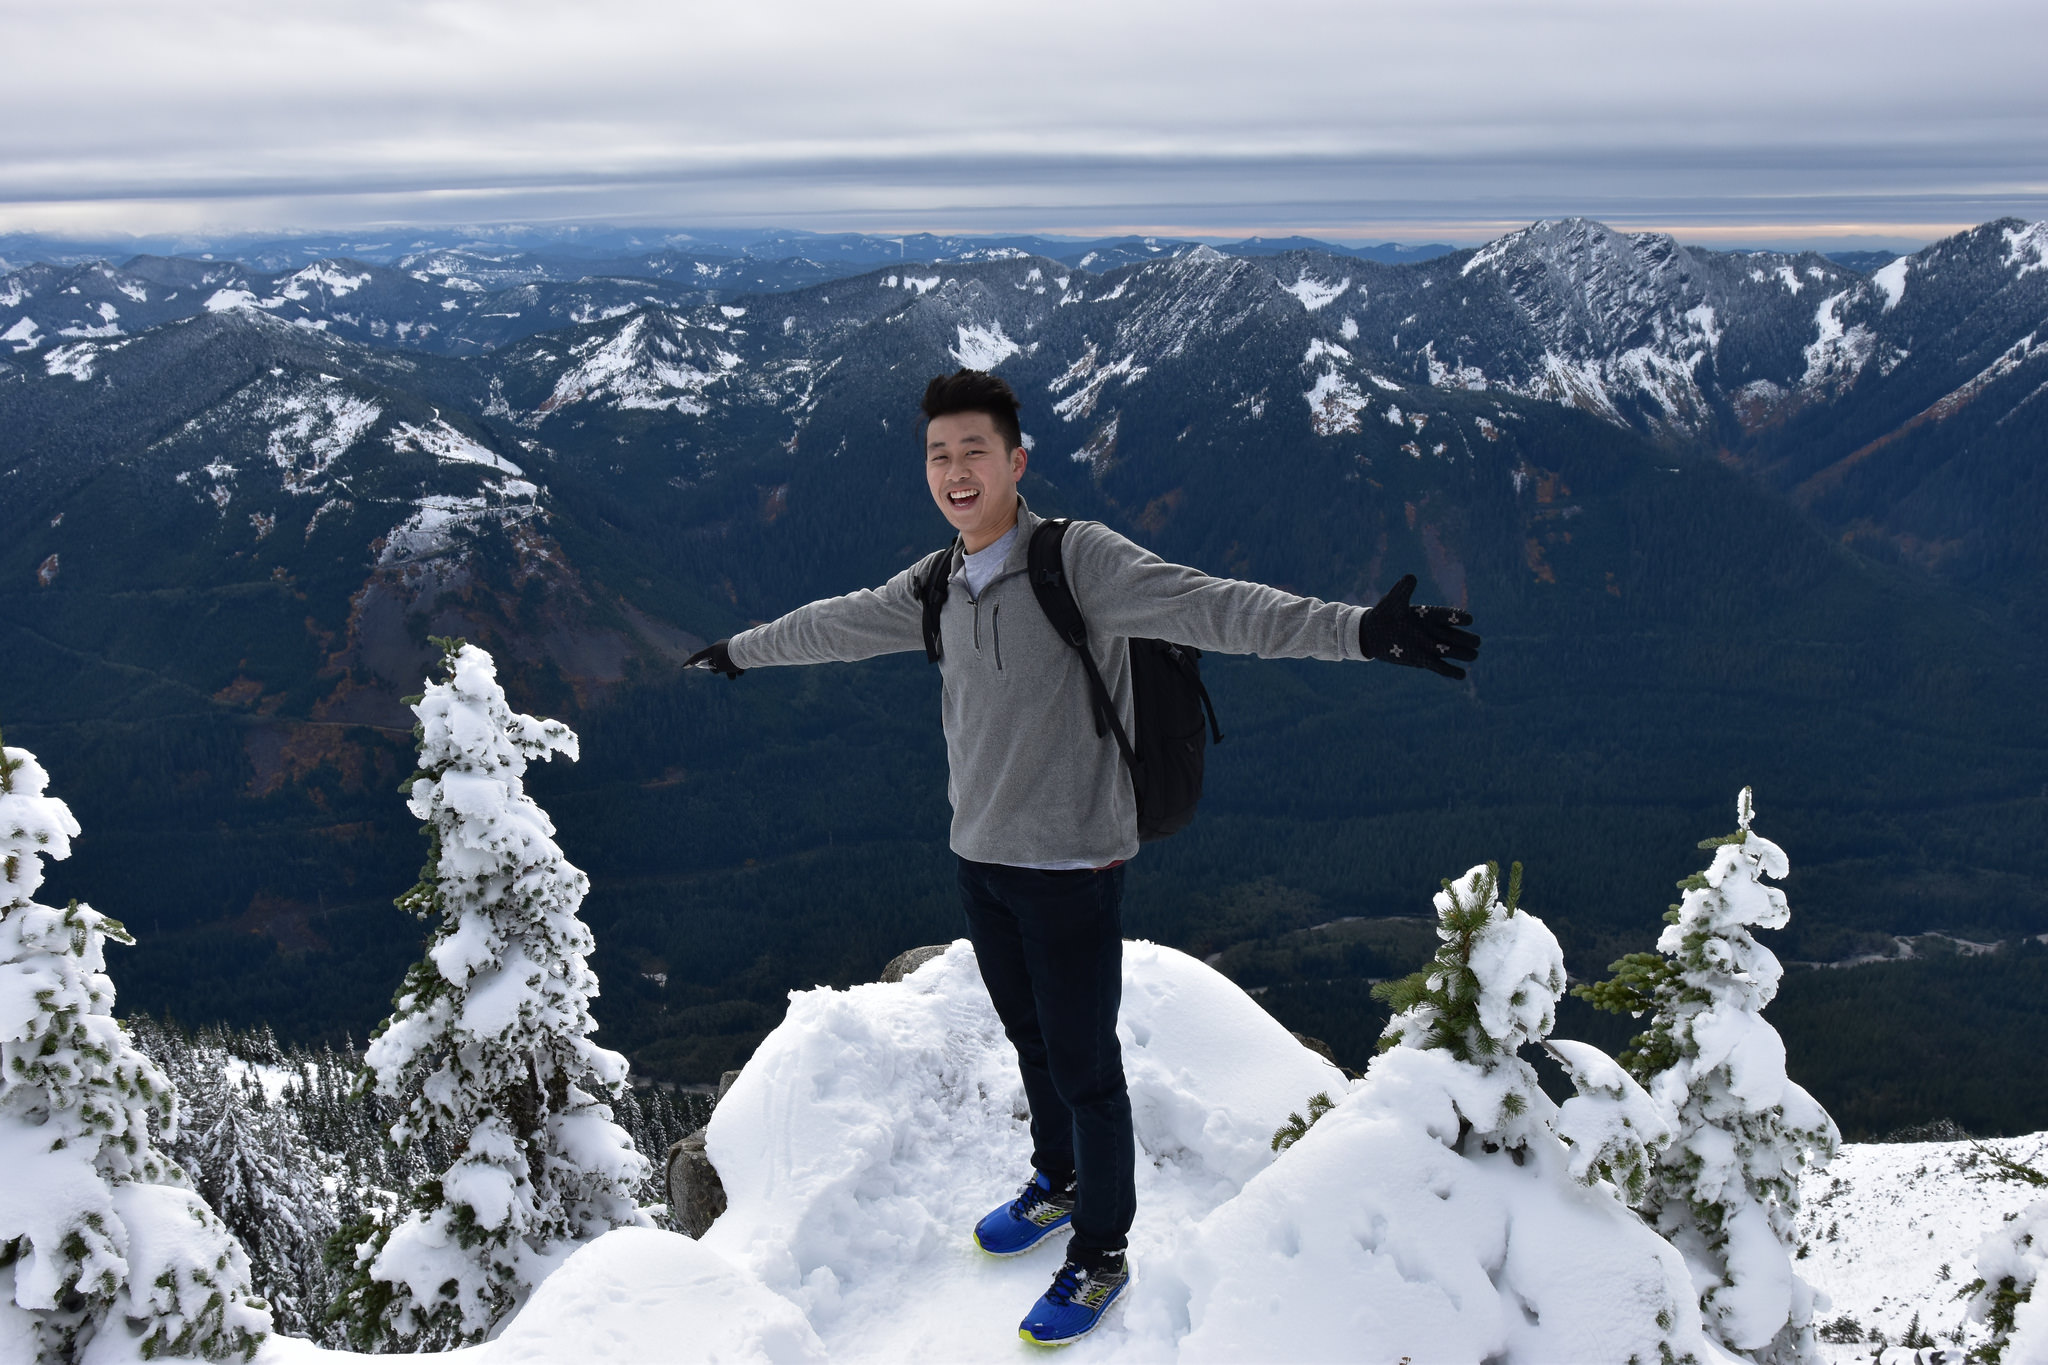
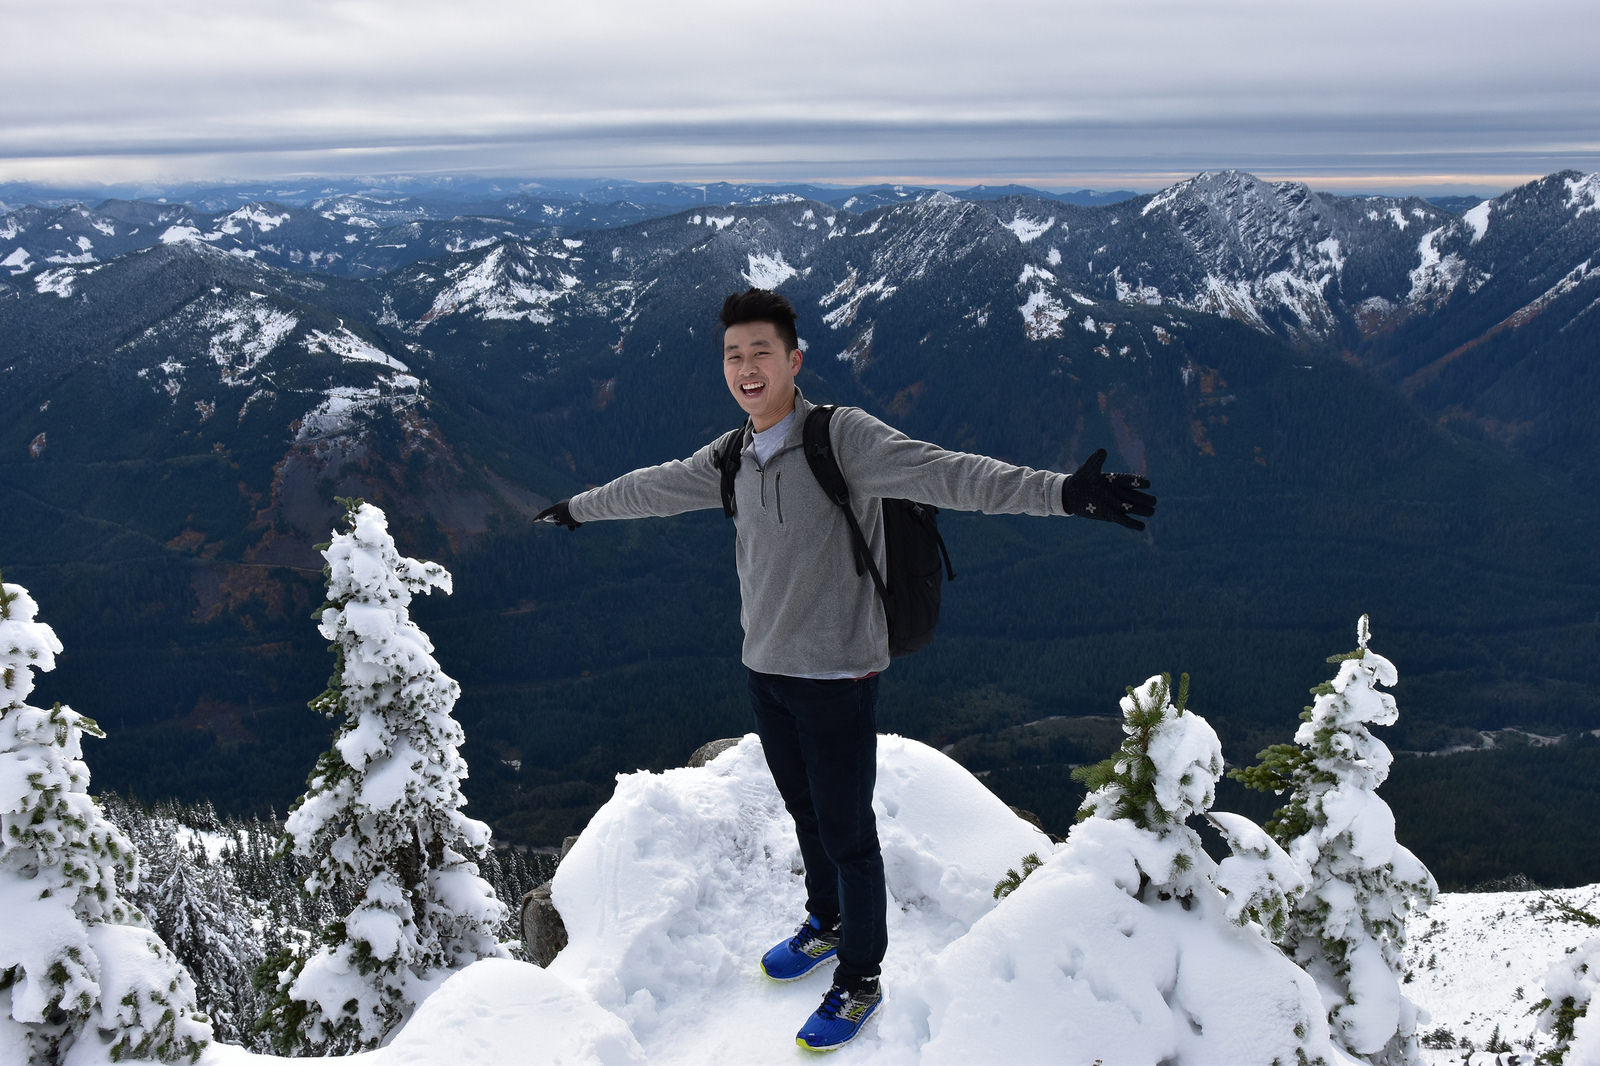
Resize background image and style it

Changed region(s): [[0.0938, 0.7739, 0.2188, 0.8977]]

diff --git a/alanseto.dev/src/index.scss b/alanseto.dev/src/index.scss
@@ -1,5 +1,19 @@
 body {
   margin: 0;
   padding: 0;
-  background-image: url(./assets/background.jpg);
+
+  &::before {
+    position: fixed;
+    z-index: 0;
+    top: 0;
+    left: 0;
+    display: block;
+    width: 100vw;
+    height: 100vh;
+    content: '';
+    transform: scale(1);
+    pointer-events: none;
+    background-image: linear-gradient(to top, rgba(0,0,0,.62), rgba(0,0,0,.62)), url(./assets/background.jpg);
+    background-size: auto, cover;
+  }
 }

diff --git a/alanseto.dev/src/components/App/App.js b/alanseto.dev/src/components/App/App.js
@@ -2,7 +2,7 @@ import React, { Component } from 'react';
 
 import './App.scss';
 
-export class App extends Component {
+class App extends Component {
   render() {
     return (
       <div className="App">
@@ -10,3 +10,5 @@ export class App extends Component {
     );
   }
 }
+
+export default App;

diff --git a/alanseto.dev/src/components/App/index.js b/alanseto.dev/src/components/App/index.js
@@ -1,3 +1,1 @@
-import { App } from './App';
-
-export default App;
+export { default } from './App';
